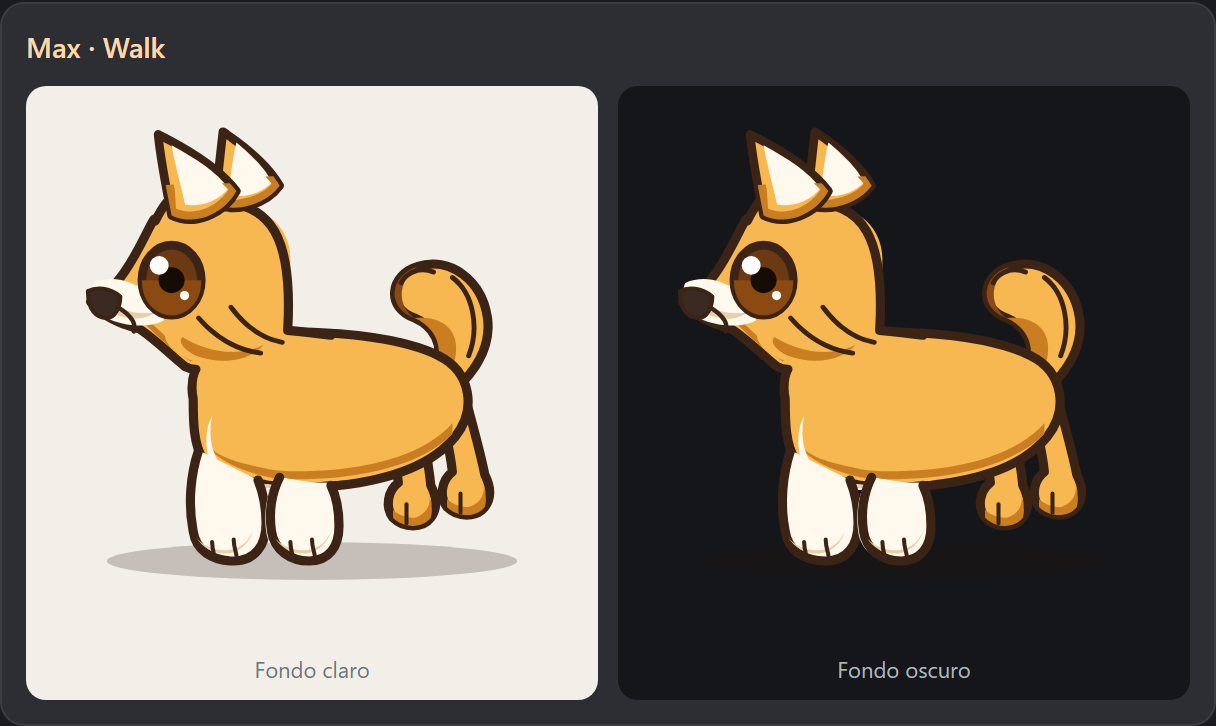
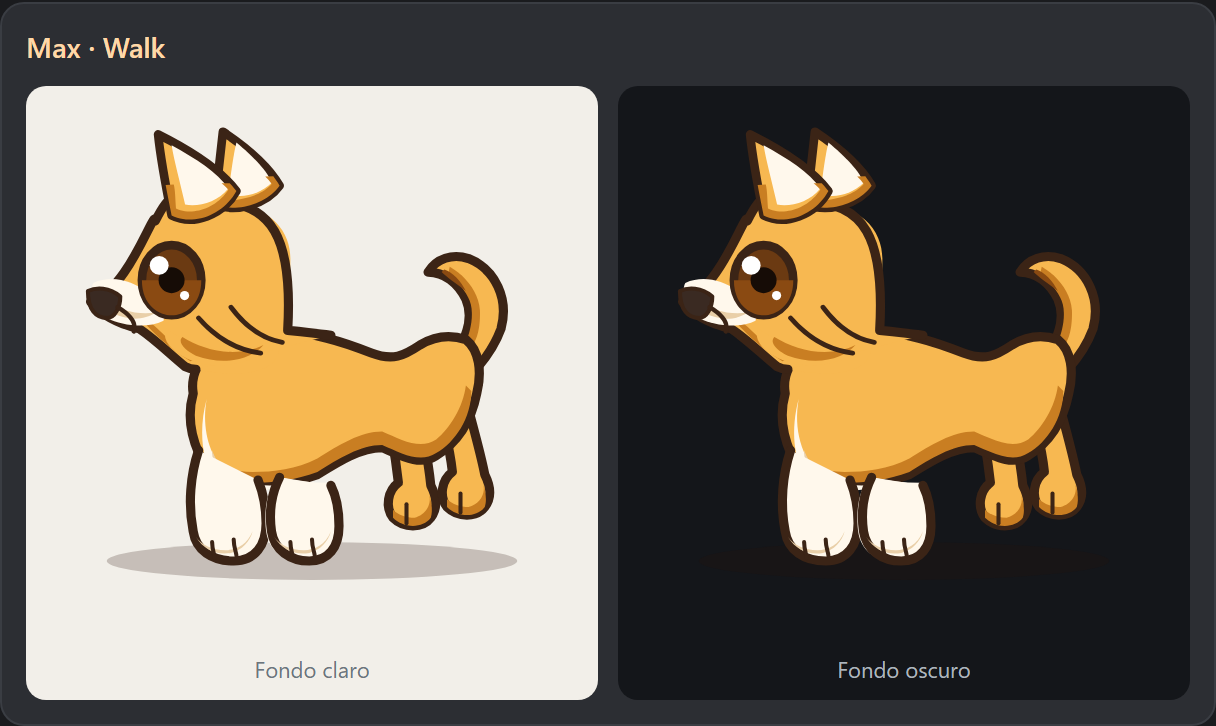
feat(corregir-la-pose-de-caminar-de): Paso 2 — Evidencia visual de la pose nueva de Max al caminar

diff --git a/test/pet-assets.test.js b/test/pet-assets.test.js
@@ -2059,3 +2059,73 @@ test('README de capturas: indexa las 12 capturas y documenta el comando para reg
   assert.match(md, /python\s+test\/preview\/pet-poses-capture\.py/,
     'el README debe documentar el comando para regenerar las capturas');
 });
+
+/**
+ * Celdas de la fila de la tabla de capturas de una pose.
+ * La tabla es | PNG | Especie | Estado | Que mirar |.
+ * Devuelve null si la pose no tiene fila.
+ */
+function screenshotTableRow(md, poseId) {
+  for (const line of md.split('\n')) {
+    if (!line.trim().startsWith('|')) continue;
+    const cells = line.split('|').slice(1, -1).map((c) => c.trim());
+    if (cells.length < 4) continue;
+    if (cells[0].includes(`${poseId}.png`)) return cells;
+  }
+  return null;
+}
+
+/** Texto sin acentos y en minusculas, para comparar palabras clave. */
+function plainText(s) {
+  return s.normalize('NFD').replace(/[\u0300-\u036f]/g, '').toLowerCase();
+}
+
+// =============================================================
+// POSE DE CAMINAR DE MAX — plan 2026-10-30-dog-walk-pose-fix
+//
+// La captura docs/pet-screenshots/dog-walk.png es la evidencia que mira
+// el revisor visual, asi que su fila en el README tiene que decir QUE
+// MIRAR en la pose nueva: la cola que nace de la grupa y se enrosca hacia
+// arriba sin apoyarse en el lomo, el pecho mas hondo que la cintura y la
+// silueta unica.
+// =============================================================
+
+test('README de capturas: la fila de dog-walk documenta los criterios visuales de la pose de caminar de Max', () => {
+  assert.ok(fs.existsSync(SHOTS_README_PATH),
+    'falta docs/pet-screenshots/README.md (indice de capturas)');
+  const md = fs.readFileSync(SHOTS_README_PATH, 'utf8');
+
+  const cells = screenshotTableRow(md, 'dog-walk');
+  assert.ok(cells,
+    'el README no tiene la fila de dog-walk.png en la tabla de capturas');
+  assert.match(cells[1], /Max/,
+    'la fila de dog-walk debe seguir diciendo que la pose es de Max');
+  assert.match(cells[2], /walk/,
+    'la fila de dog-walk debe seguir diciendo que el estado es walk');
+
+  const what = plainText(cells[3]);
+
+  // 1. la cola nace de la grupa y se enrosca hacia arriba sin apoyarse en el lomo
+  assert.match(what, /cola/,
+    'la fila debe decir que hay que mirar la cola');
+  assert.match(what, /grupa/,
+    'la fila debe decir que la cola nace de la grupa');
+  assert.match(what, /(hacia arriba|enroscad|gancho|sube)/,
+    'la fila debe decir que la cola se enrosca hacia arriba');
+  assert.match(what, /(sin apoy|no se apoya|apoyada)/,
+    'la fila debe decir que la cola no se apoya en el lomo');
+  assert.match(what, /lomo/,
+    'la fila debe mencionar el lomo');
+
+  // 2. el pecho es mas hondo que la cintura
+  assert.match(what, /pecho/,
+    'la fila debe decir que hay que mirar el pecho');
+  assert.match(what, /cintura/,
+    'la fila debe decir que hay que mirar la cintura');
+  assert.match(what, /(mas hondo|hondo|profundo)/,
+    'la fila debe decir que el pecho es mas hondo que la cintura');
+
+  // 3. la pose se lee como una sola silueta
+  assert.match(what, /(silueta unica|una sola silueta|una sola linea continua|un solo contorno)/,
+    'la fila debe decir que la pose se lee como una sola silueta');
+});

diff --git a/docs/pet-screenshots/README.md b/docs/pet-screenshots/README.md
@@ -25,7 +25,7 @@ correr el comando de abajo.
 | [`cat-lay.png`](cat-lay.png) | Luna (gato) | lay | Acostada panza abajo, patas estiradas |
 | [`cat-stretch.png`](cat-stretch.png) | Luna (gato) | stretch | Estirada, grupa alta, cola alzada |
 | [`dog-idle.png`](dog-idle.png) | Max (perro) | idle | Pose de referencia del shiba: orejas caidas, hocico, cola en sable |
-| [`dog-walk.png`](dog-walk.png) | Max (perro) | walk | Perfil: la silueta exterior debe leerse como una sola linea continua |
+| [`dog-walk.png`](dog-walk.png) | Max (perro) | walk | Cola que nace de la grupa y se enrosca hacia arriba sin apoyarse en el lomo (queda aire entre el rizo y la espalda); pecho mas hondo que la cintura; silueta unica (una sola linea continua) |
 | [`dog-sleep.png`](dog-sleep.png) | Max (perro) | sleep | Acostado, ojos cerrados, sombra de piso mas baja |
 | [`dog-sit.png`](dog-sit.png) | Max (perro) | sit | Sentado, pecho erguido, cola en curva baja al costado |
 | [`dog-lay.png`](dog-lay.png) | Max (perro) | lay | Acostado panza abajo, patas estiradas |
